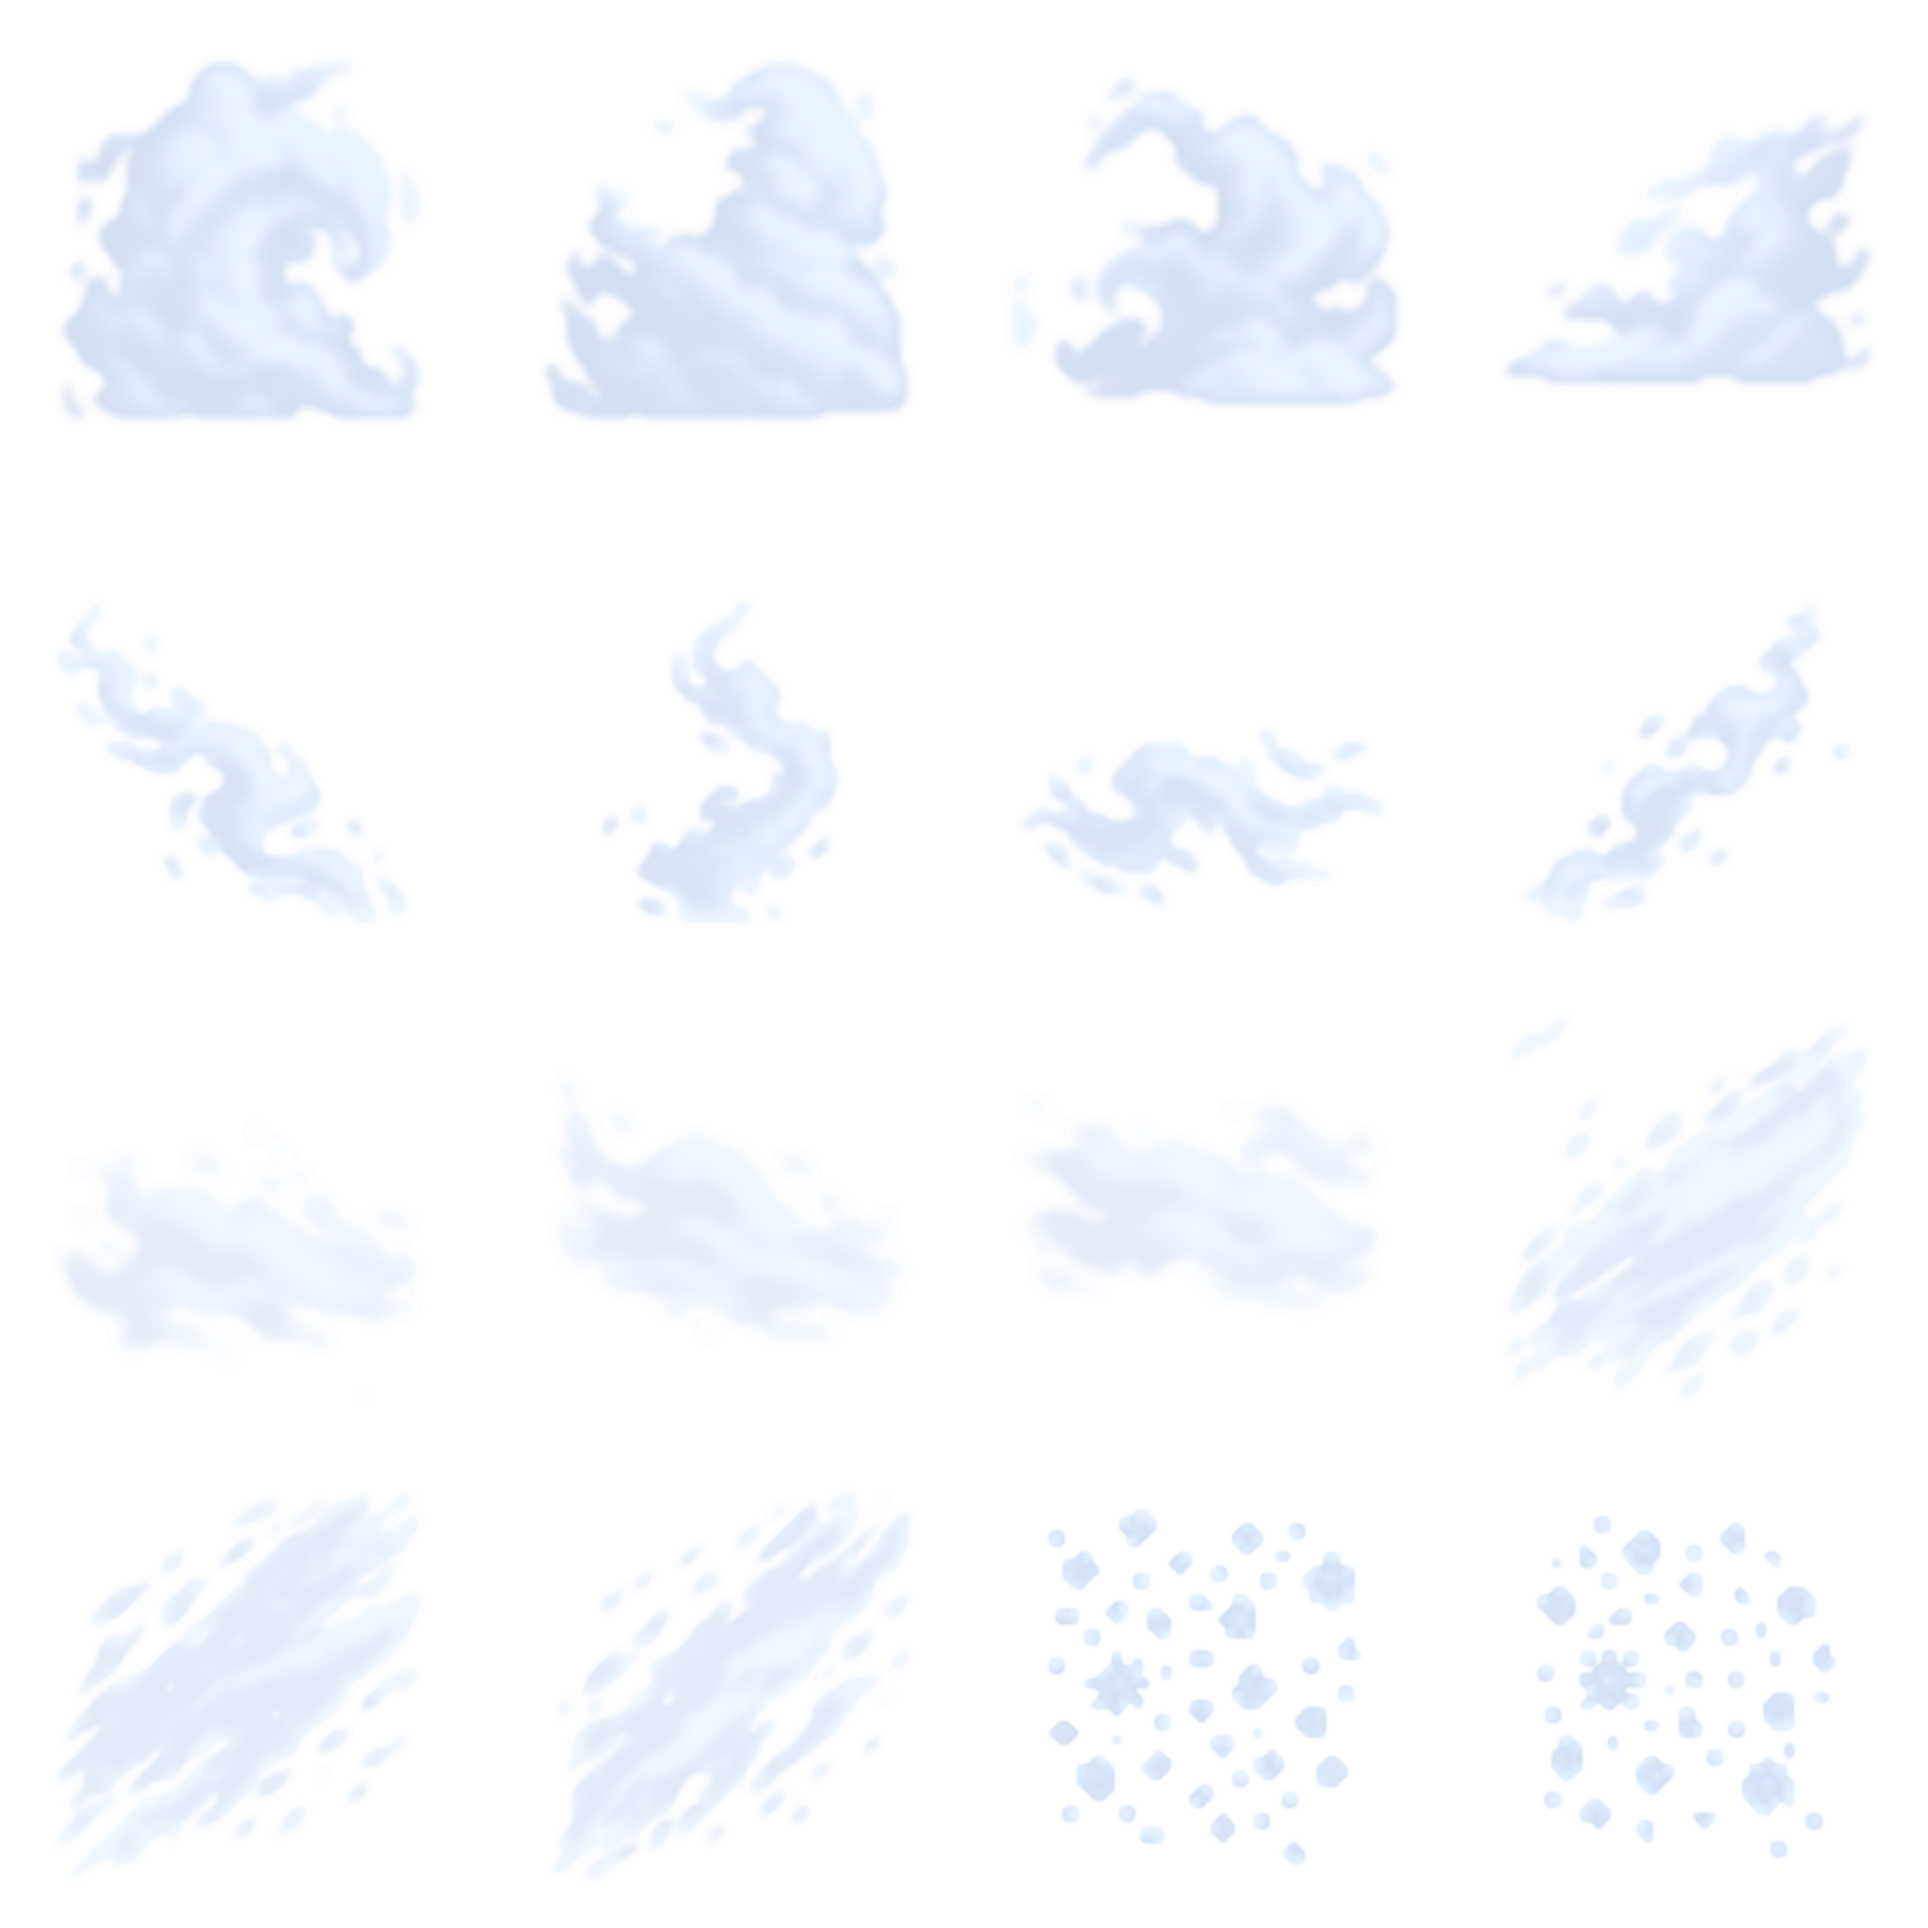
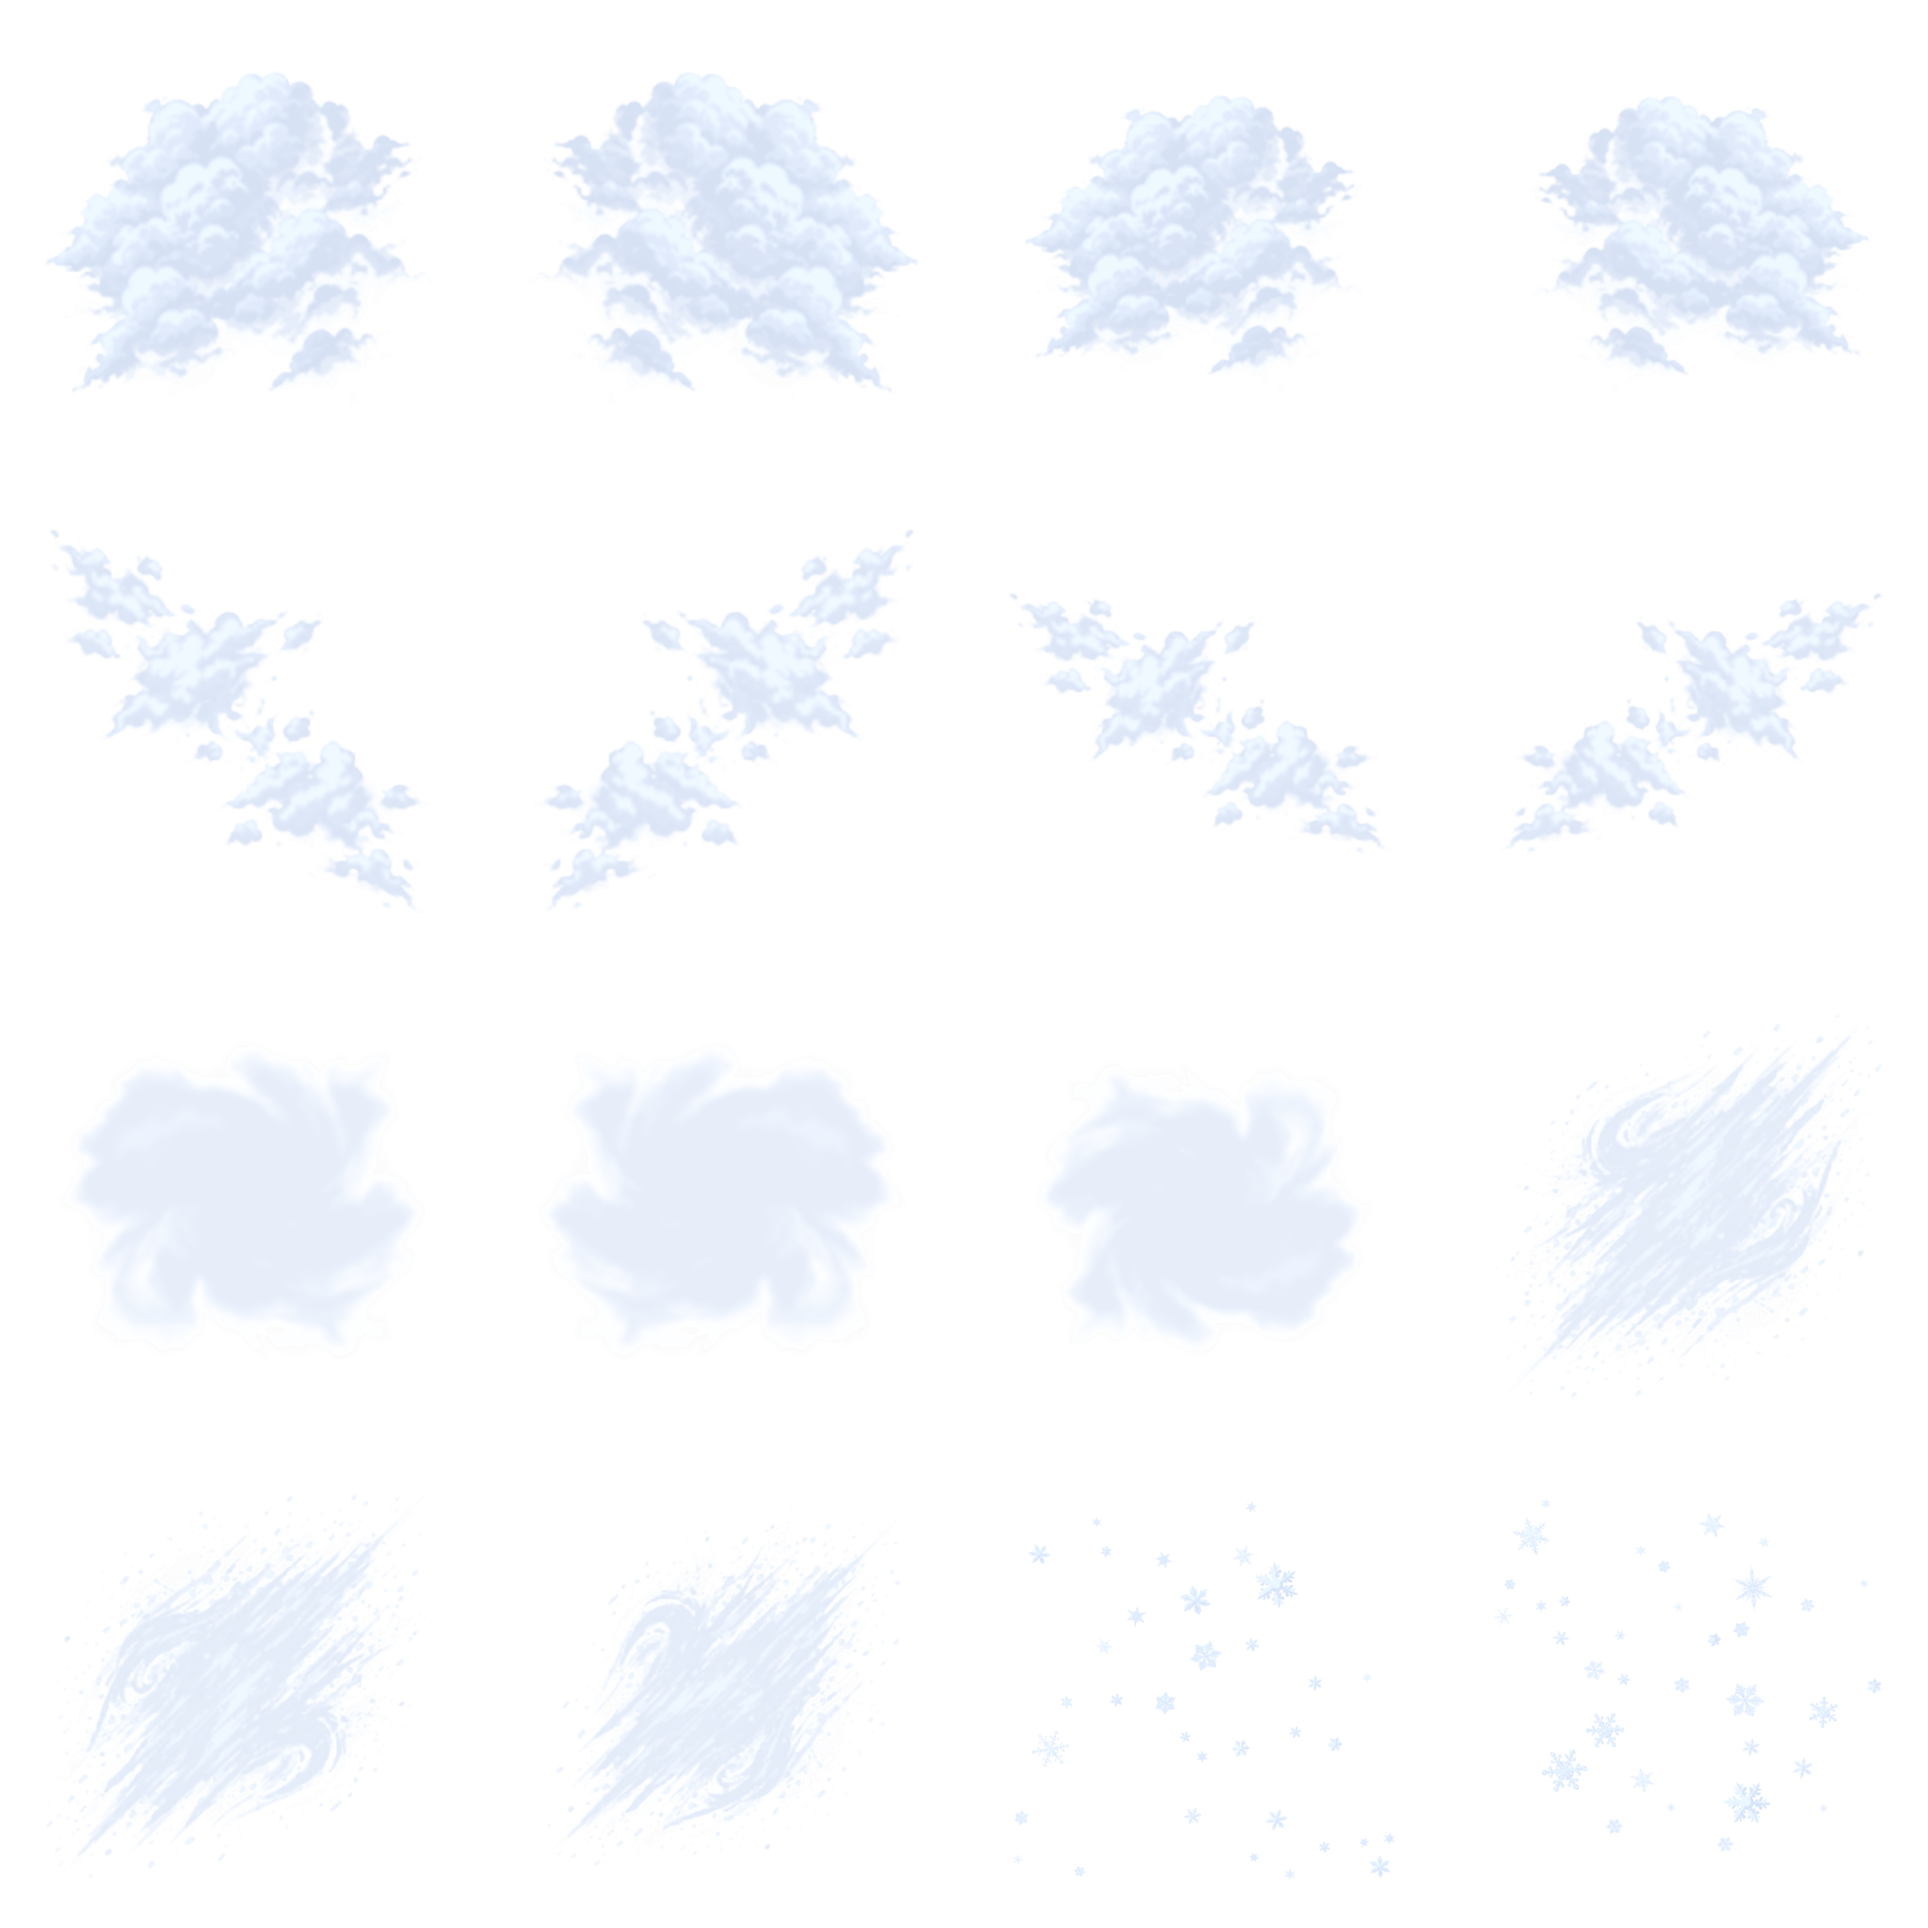
Frost painted weather: cloud banks, wisps, mist, blizzard and snow from the approved soft paintings (weather + ambient sheets)

diff --git a/Pause/Assets/Art/Worlds/Frost/backdrop_v3/src~/frost_redraw/build_soft_weather.py b/Pause/Assets/Art/Worlds/Frost/backdrop_v3/src~/frost_redraw/build_soft_weather.py
@@ -209,27 +209,94 @@ def clean_cell(a, fam):
     return a
 
 
+def still(name):
+    """An approved painted still (480 x 480, straight RGBA) -> premultiplied float."""
+    return premul(np.asarray(Image.open(HERE / "sources" / f"{name}.png").convert("RGBA")).astype(np.float64) / 255.0)
+
+
+def variant(p, flip=False, transpose=False, rot=0.0, scale=1.0, dx=0, dy=0):
+    """One frame of a family made from its single approved still: mirrored / transposed / turned / shrunk / shifted, same size."""
+    H, W = p.shape[:2]
+    if flip:
+        p = p[:, ::-1]
+    if transpose:
+        p = p.transpose(1, 0, 2)
+    if scale != 1.0:
+        n = int(round(W * scale))
+        p = place_centre(resize(p, n, n), H, W)
+    if rot:
+        p = rotate(p, rot)
+    if dx or dy:
+        p = np.clip(ndimage.shift(p, (dy, dx, 0), order=1, mode="constant"), 0, 1)
+    return np.ascontiguousarray(p)
+
+
+# The user-approved painted weather (2026-11; scratchpad provenance wxp/made.json): ONE still per family (sources/wxp_<fam>.png <-
+# out2/bd_frost_wxp_<fam>/<pick>.png: cloudbank r1_0, cloudwisp r1_2, mist r1_3, blizzard r1_0, flakes r1_0). Each family's 2 - 4 frames
+# are that still mirrored / turned / shrunk / shifted, so every variant is the approved drawing (no unapproved option mixed in). Every
+# still is first framed at WEATHER_FIT of the content (the paintings run to ~17 px of their edges; edge_window fades the outer 18 px).
+# The blizzard's streaks lean "/" (they fall down-left): its variants keep that lean (180 degree turn, transpose), never a mirror.
+WEATHER_STILL = {"cloud_bank": "wxp_cloudbank", "cloud_wisp": "wxp_cloudwisp", "mist": "wxp_mist", "blizzard": "wxp_blizzard"}
+WEATHER_FIT = .94
+WEATHER_VARIANTS = {
+    "cloud_bank": [dict(), dict(flip=True), dict(rot=-6, scale=.88, dx=-8), dict(flip=True, rot=7, scale=.88, dx=10)],
+    "cloud_wisp": [dict(), dict(flip=True), dict(rot=12, scale=.86), dict(flip=True, rot=-12, scale=.86)],
+    "mist":       [dict(), dict(flip=True), dict(rot=180, scale=.92)],
+    "blizzard":   [dict(), dict(rot=180), dict(transpose=True, scale=.92)],
+}
+# the paintings are drawn at full resolution: only a light blur (it removes the stills' last pixel-art stair steps), no smear
+PAINTED_SIGMA = {"cloud_bank": 1.0, "cloud_wisp": 1.0, "mist": 1.5, "blizzard": .7, "snow": .6}
+
+
+def flake_cells():
+    """The six approved dendrite crystals (sources/wxp_flakes.png: 6 cells of 256 px), straight RGBA float, each its own cell."""
+    a = np.asarray(Image.open(HERE / "sources" / "wxp_flakes.png").convert("RGBA")).astype(np.float64) / 255.0
+    n = a.shape[1] // a.shape[0]
+    return [a[:, k * a.shape[0]:(k + 1) * a.shape[0]] for k in range(n)]
+
+
+def snow_field(C, seed):
+    """A snow field frame (the old pick's snow cells: a scatter of flakes over the cell) made from the approved crystals: each
+    flake turned at random, drawn 14 - 52 px, never overlapping, clear of the content's edges. Premultiplied."""
+    rng = np.random.default_rng(seed)
+    flakes = [tight_premul(premul(f)) for f in flake_cells()]
+    out = np.zeros((C, C, 4))
+    placed = []
+    tries = 0
+    while len(placed) < 34 and tries < 4000:
+        tries += 1
+        s = int(rng.choice([14, 16, 18, 20, 22, 26, 30, 36, 44, 52], p=[.16, .14, .13, .12, .1, .1, .08, .07, .05, .05]))
+        x, y = rng.uniform(28 + s / 2, C - 28 - s / 2, 2)
+        if any(np.hypot(x - px, y - py) < (s + ps) / 2 + 8 for px, py, ps in placed):
+            continue
+        f = flakes[int(rng.integers(len(flakes)))]
+        side = max(f.shape[:2])
+        sq = place_centre(f, side, side)
+        sq = rotate(sq, float(rng.uniform(0, 60)))
+        piece = resize(sq, s, s) * rng.uniform(.6, 1.0)
+        y0, x0 = int(round(y - s / 2)), int(round(x - s / 2))
+        out[y0:y0 + s, x0:x0 + s] = np.maximum(out[y0:y0 + s, x0:x0 + s], piece)
+        placed.append((x, y, s))
+    return out
+
+
 def build_weather():
-    pick = src("weather")
     P, C, g = 512, 512 - 2 * GUTTER, GUTTER
     S = 2048
     sheet = np.zeros((S, S, 4))
     sprites = []
+    stills = {fam: variant(still(n), scale=WEATHER_FIT) for fam, n in WEATHER_STILL.items()}
+    seen = {}
     for i, (name, r, c) in enumerate(WEATHER_CELLS):
         fam = name.rsplit("_", 1)[0]
         look = WEATHER_LOOK[fam]
-        cell = clean_cell(pick[r * 64:(r + 1) * 64, c * 64:(c + 1) * 64], fam)
-        scale = C / 64.0                                   # the 64 px pick cell -> the 480 px content area (same framing as before)
-        p = premul(cell)
-        p = resize(p, C, C)
-        p = blur(p, look["sigma"])
-        if fam == "blizzard":
-            # the sheets streak down-left: smear along the 45 degree streaks (motion), keep them thin across
-            k = 9
-            acc = np.zeros_like(p)
-            for t in range(-k, k + 1):
-                acc += ndimage.shift(p, (t * .7, -t * .7, 0), order=1, mode="constant")
-            p = acc / (2 * k + 1)
+        j = seen.get(fam, 0)
+        seen[fam] = j + 1
+        if fam == "snow":
+            p = snow_field(C, seed=31 + j)
+        else:
+            p = variant(stills[fam], **WEATHER_VARIANTS[fam][j])
+        p = blur(p, PAINTED_SIGMA[fam])
         d = ice(p, look["peak"], lo=look["lo"], hi=look["hi"], lift=look["lift"])
         d[..., 3] *= edge_window(C, C, 18)
         row, col = divmod(i, 4)
@@ -517,30 +584,48 @@ def complete(a, clipped_top):
     return np.where(take, flip, out)
 
 
+def ambient_pick_drawing(pick, r, c, idx):
+    """A wx_ambient pick cell's drawing (every group of it: a flake and its sparkles), tight, completed / faded where the pick cut it."""
+    cell = pick[r * 64:(r + 1) * 64, c * 64:(c + 1) * 64].copy()
+    ds = drawings(cell, dilate=3, min_px=6)
+    if not ds:
+        raise ValueError(f"ambient cell r{r} c{c} is empty")
+    m = np.zeros(cell.shape[:2], bool)
+    for d in ds:
+        m |= d[4]
+    cell[~m] = 0
+    ys, xs = np.nonzero(m)
+    a = cell[ys.min():ys.max() + 1, xs.min():xs.max() + 1]
+    cut_top, cut_bottom = r == 0 and ys.min() == 0, r == 1 and ys.max() == 63
+    if (cut_top or cut_bottom) and idx in AMBIENT_MIRROR:
+        a = complete(a, cut_top)
+    elif cut_top or cut_bottom:
+        fade = smoothstep(0, 5, np.arange(a.shape[0]).astype(float))
+        a = a * (fade if cut_top else fade[::-1])[:, None, None]
+    return a
+
+
+# The approved dendrite crystals (sources/wxp_flakes.png) replace the pick's snowflakes: Frost's two falling-snow kinds (kind 0, cells 0-3,
+# the big flakes; kind 1, cells 4-7, the small ones) are cells (crystal, turn in degrees) of it; kinds 2 - 3 stay the pick's.
+AMBIENT_FLAKES = {0: (0, 0), 1: (1, 0), 2: (2, 0), 3: (3, 0), 4: (4, 0), 5: (5, 0), 6: (0, 30), 7: (2, 30)}
+
+
 def build_wx_ambient():
     pick = src("wx_ambient")
+    crystals = flake_cells()
     sheet = np.zeros((512, 2048, 4))
     cells = []
     for r in range(2):
         for c in range(8):
             idx = r * 8 + c
-            cell = pick[r * 64:(r + 1) * 64, c * 64:(c + 1) * 64].copy()
-            ds = drawings(cell, dilate=3, min_px=6)
-            if not ds:
-                raise ValueError(f"ambient cell r{r} c{c} is empty")
-            # the cell's drawing: every group of it (a flake and its sparkles)
-            m = np.zeros(cell.shape[:2], bool)
-            for d in ds:
-                m |= d[4]
-            cell[~m] = 0
-            ys, xs = np.nonzero(m)
-            a = cell[ys.min():ys.max() + 1, xs.min():xs.max() + 1]
-            cut_top, cut_bottom = r == 0 and ys.min() == 0, r == 1 and ys.max() == 63
-            if (cut_top or cut_bottom) and idx in AMBIENT_MIRROR:
-                a = complete(a, cut_top)
-            elif cut_top or cut_bottom:
-                fade = smoothstep(0, 5, np.arange(a.shape[0]).astype(float))
-                a = a * (fade if cut_top else fade[::-1])[:, None, None]
+            if idx in AMBIENT_FLAKES:
+                k, turn = AMBIENT_FLAKES[idx]
+                f = premul(crystals[k])
+                if turn:
+                    f = rotate(f, turn)
+                a = unpremul(tight_premul(f))
+            else:
+                a = ambient_pick_drawing(pick, r, c, idx)
             # no dark pixel outlines on falling snow: the drawing's darkest values fade out, its lights stay
             lum = .2126 * a[..., 0] + .7152 * a[..., 1] + .0722 * a[..., 2]
             a = a.copy()
